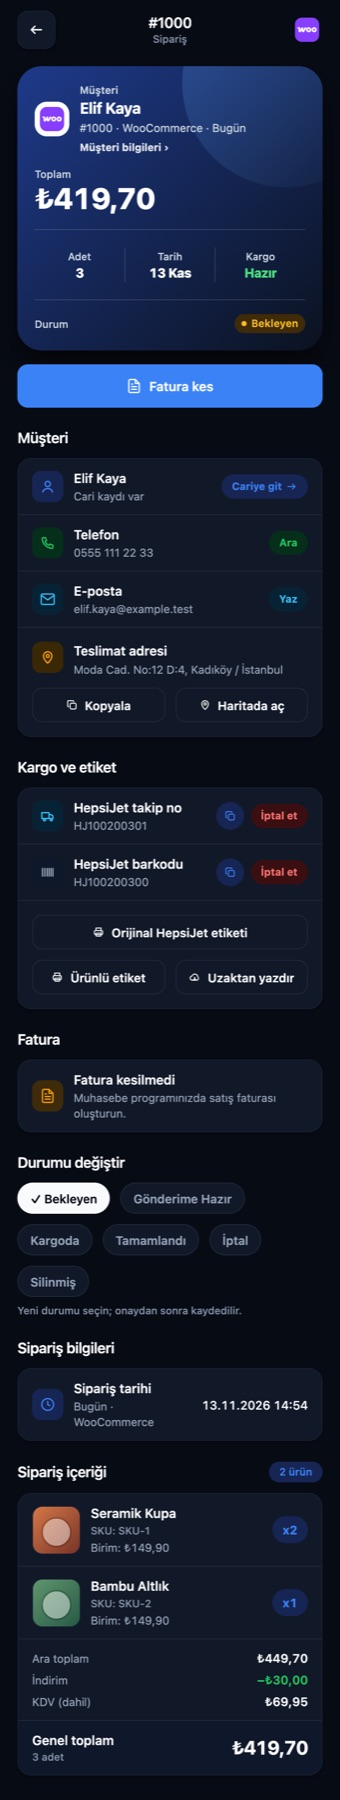
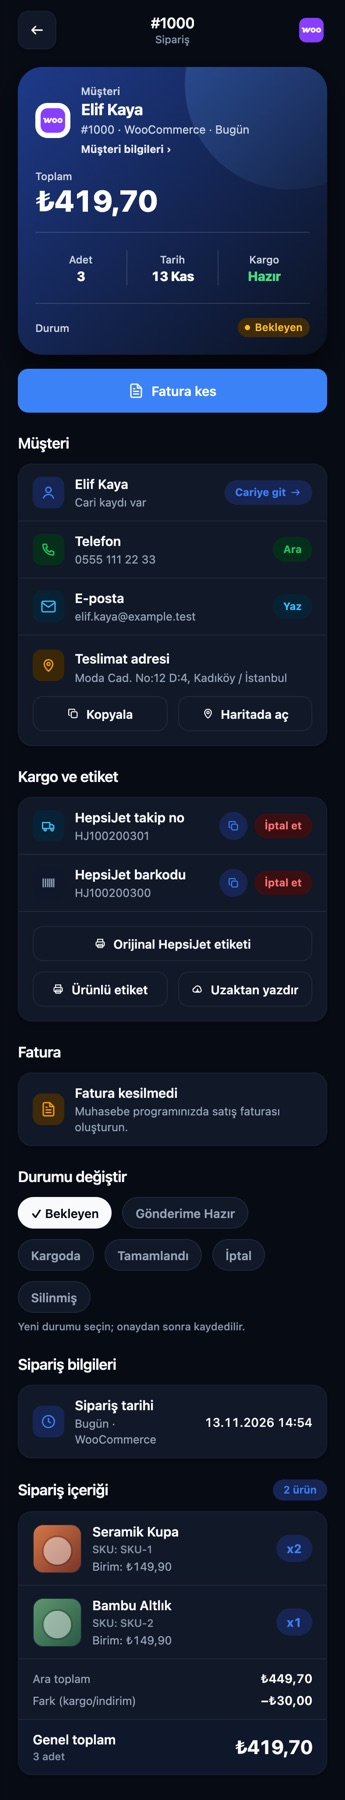
Tutar dökümünde tahmin yok (PM düzeltmesi)
KDV yalnız siparişte gerçek vergi alanı varsa gösterilir; vat_rate'ten hesaplanmaz.
İndirim / kargo alanı gelmezse toplam − kalemler farkı tek satır: "Fark (kargo/indirim)".
Önce kırmızı test: dev/test-order-detail-ui.mjs (g).

diff --git a/frontend/src/order-detail-ui.ts b/frontend/src/order-detail-ui.ts
@@ -129,7 +129,9 @@ export function itemImage(it: AnyOrder, fallback?: string | null): string | null
 }
 
 // ---- g) Tutar dökümü (kuruş hesabıyla) ----
-export type AmountRow = { key: "subtotal" | "discount" | "shipping" | "tax"; label: string; amount: number };
+// PM 13 Kas 2026: kanaldan gelmeyen alan tahminle gösterilmez. KDV yalnız siparişte gerçek vergi alanı varsa;
+// indirim / kargo alanı yoksa toplam − kalemler farkı tek satır "Fark (kargo/indirim)".
+export type AmountRow = { key: "subtotal" | "discount" | "shipping" | "difference" | "tax"; label: string; amount: number };
 
 const minor = (v: unknown) => Math.round(Number(v || 0) * 100);
 const major = (k: number) => k / 100;
@@ -143,10 +145,11 @@ const firstNum = (o: AnyOrder, keys: string[]) => {
 
 export function amountBreakdown(o: AnyOrder): { rows: AmountRow[]; total: number } {
   const items: AnyOrder[] = Array.isArray(o?.items) ? o.items : [];
-  const lineK = items.map((it) =>
-    it?.total_price != null && it?.total_price !== "" ? minor(it.total_price) : Math.round(minor(it?.unit_price ?? it?.price) * Number(it?.quantity || 0))
+  const subK = items.reduce(
+    (a, it) =>
+      a + (it?.total_price != null && it?.total_price !== "" ? minor(it.total_price) : Math.round(minor(it?.unit_price ?? it?.price) * Number(it?.quantity || 0))),
+    0
   );
-  const subK = lineK.reduce((a, b) => a + b, 0);
   const totalK = minor(o?.total_amount) || subK;
   if (!items.length) return { rows: [], total: major(totalK) };
 
@@ -156,25 +159,11 @@ export function amountBreakdown(o: AnyOrder): { rows: AmountRow[]; total: number
   if (disc != null || ship != null) {
     if (disc != null) rows.push({ key: "discount", label: "İndirim", amount: -disc });
     if (ship != null) rows.push({ key: "shipping", label: "Kargo", amount: ship });
-  } else {
-    const diff = totalK - subK;
-    if (diff < 0) rows.push({ key: "discount", label: "İndirim", amount: major(diff) });
-    else if (diff > 0) rows.push({ key: "shipping", label: "Kargo ve diğer", amount: major(diff) });
+  } else if (totalK !== subK) {
+    rows.push({ key: "difference", label: "Fark (kargo/indirim)", amount: major(totalK - subK) });
   }
-
-  const taxField = firstNum(o, ["tax_amount", "vat_amount", "total_tax"]);
-  let taxK: number | null = taxField != null ? minor(taxField) : null;
-  if (taxK == null && items.some((it) => Number(it?.vat_rate) > 0)) {
-    // Kanal fiyatları KDV dahil gelir; içindeki KDV indirimli satır tutarı üzerinden değil, satır tutarından hesaplanır.
-    const share = subK > 0 ? totalK / subK : 1;
-    taxK = Math.round(
-      items.reduce((a, it, i) => {
-        const r = Number(it?.vat_rate) || 0;
-        return a + (r > 0 ? ((lineK[i] * share) * r) / (100 + r) : 0);
-      }, 0)
-    );
-  }
-  if (taxK) rows.push({ key: "tax", label: "KDV (dahil)", amount: major(taxK) });
+  const tax = firstNum(o, ["tax_amount", "vat_amount", "total_tax"]);
+  if (tax != null) rows.push({ key: "tax", label: "KDV", amount: tax });
 
   if (!rows.length) return { rows: [], total: major(totalK) };
   return { rows: [{ key: "subtotal", label: "Ara toplam", amount: major(subK) }, ...rows], total: major(totalK) };
